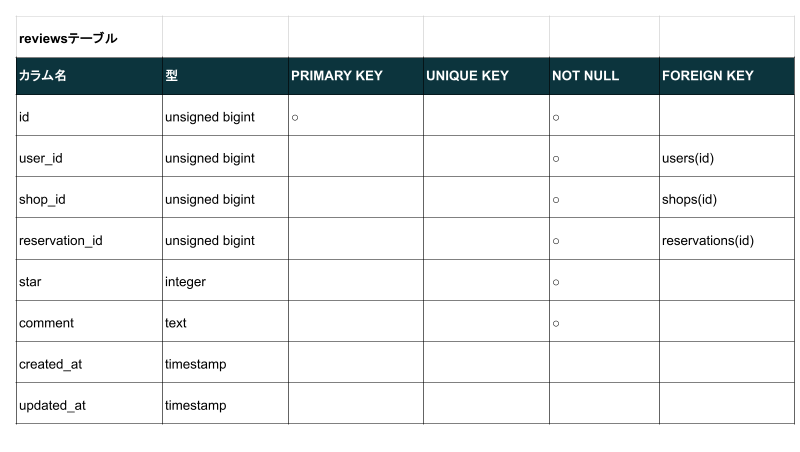
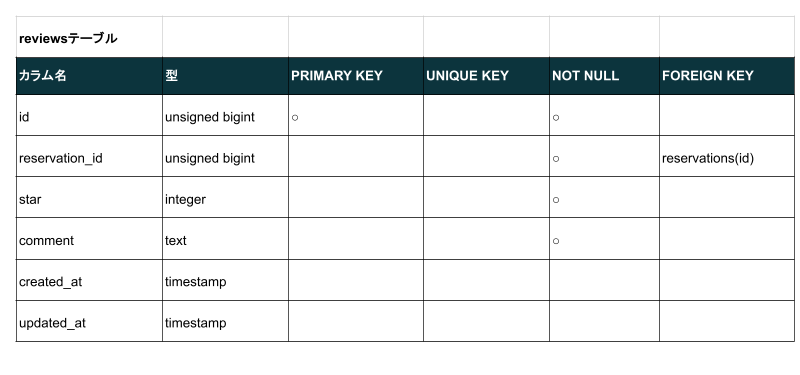
reviewsテーブル修正

diff --git a/src/app/Http/Controllers/ShopController.php b/src/app/Http/Controllers/ShopController.php
@@ -156,18 +156,14 @@ class ShopController extends Controller
             $reservation_items = Reservation::find($review_content['reservation_id']);
             $reservation_record = [];
             $reservation_record['id'] = $reservation_items->id;
-            $reservation_record['user_id'] = $reservation_items->user_id;
             $reservation_record['shop_name'] = $reservation_items->shop->name;
-            $reservation_record['shop_id'] = $reservation_items->shop_id;
             $request->session()->forget('form_input');
         } else {
             $reservation_items = Reservation::find($request->id);
 
             $reservation_record = [];
             $reservation_record['id'] = $reservation_items->id;
-            $reservation_record['user_id'] = $reservation_items->user_id;
             $reservation_record['shop_name'] = $reservation_items->shop->name;
-            $reservation_record['shop_id'] = $reservation_items->shop_id;
         }
 
 
@@ -178,7 +174,7 @@ class ShopController extends Controller
     //レビュー確認
     public function review_confirm(ReviewRequest $request)
     {
-        $review_content = $request->only(['user_id','shop_id','reservation_id','shop_name','star','comment']);
+        $review_content = $request->only(['reservation_id','shop_name','star','comment']);
         $request->session()->put("form_input", $review_content);
         return view('review_confirm', compact('review_content'));
     }
@@ -193,7 +189,7 @@ class ShopController extends Controller
         ->withInput();
         }
 
-        $review_confirm = $request->only(['user_id','shop_id', 'reservation_id', 'star', 'comment']);
+        $review_confirm = $request->only(['reservation_id', 'star', 'comment']);
         Review::create($review_confirm);
         return redirect ('/mypage');
     }

diff --git a/src/resources/views/review_make.blade.php b/src/resources/views/review_make.blade.php
@@ -21,8 +21,6 @@
             <div class="review-form__group">
                 <form action="/mypage/review/confirm" method="post">
                     @csrf
-                    <input type="hidden" name="user_id" value="{{$reservation_record['user_id']}}">
-                    <input type="hidden" name="shop_id" value="{{$reservation_record['shop_id']}}">
                     <input type="hidden" name="reservation_id" value="{{$reservation_record['id']}}">
                     <input type="hidden" name="shop_name" value="{{$reservation_record['shop_name']}}">
                     <h2 class="item__header">評価</h2>

diff --git a/src/resources/views/review_confirm.blade.php b/src/resources/views/review_confirm.blade.php
@@ -14,8 +14,6 @@
         <div class="review-confirm-form__group">
             <form action="/mypage/review/send" method="post">
                 @csrf
-                <input type="hidden" name="user_id" value="{{$review_content['user_id']}}">
-                <input type="hidden" name="shop_id" value="{{$review_content['shop_id']}}">
                 <input type="hidden" name="reservation_id" value="{{$review_content['reservation_id']}}">
                 <input type="hidden" name="star" value="{{$review_content['star']}}">
                 <input type="hidden" name="comment" value="{{$review_content['comment']}}">

diff --git a/src/database/migrations/2024_10_25_222517_create_reviews_table.php b/src/database/migrations/2024_10_25_222517_create_reviews_table.php
@@ -13,8 +13,6 @@ return new class extends Migration
     {
         Schema::create('reviews', function (Blueprint $table) {
             $table->id();
-            $table->foreignId('user_id')->constrained()->cascadeOnDelete();
-            $table->foreignId('shop_id')->constrained()->cascadeOnDelete();
             $table->foreignId('reservation_id')->constrained()->cascadeOnDelete();
             $table->integer('star')->default(0);
             $table->text('comment');

diff --git a/src/app/Models/Review.php b/src/app/Models/Review.php
@@ -8,10 +8,10 @@ use Illuminate\Database\Eloquent\Factories\HasFactory;
 class Review extends Model
 {
     use HasFactory;
-    protected $fillable = ['user_id','shop_id', 'reservation_id', 'star', 'comment'];
+    protected $fillable = ['reservation_id', 'star', 'comment'];
 
     public function user()
     {
-        return $this->belongsTo(User::class);
+        //
     }
 }

diff --git a/README.md b/README.md
@@ -29,7 +29,7 @@ http://localhost/
 - 店名検索
 - 評価機能（５段階評価およびコメント投稿）
 - 来店時照合用QRコード表示
-- リマインダー（予約当日の朝に予約情報のリマインダーメール送付）
+- リマインダー（予約当日の朝7時に予約情報のリマインダーメール送付）
 - 有料サービスの決済
 
 ＜管理者のみ＞
@@ -149,7 +149,7 @@ sudo chmod -R 777 src/*
 
 ## 機能詳細説明・補足
 - **＜評価機能＞**  
-　予約したお店に来店した後に、利用者が店舗を5段階評価とコメントができます。
+　予約したお店に来店した後に、利用者が店舗を5段階評価とコメントができます。マイページの予約履歴タブに来店済の店舗履歴が表示されますので、履歴番号右側の「レビューを書く」ボタンを押下し、投稿フォーム画面に移動してください。
 - **＜来店済ステータスへの変更＞**  
 　評価機能を有効にするためには、利用者の来店状況ステータスを来店済に変更する必要がなります。現在、暫定的に店舗代表者専用Owner-pageの予約一覧画面の「来店済にする」ボタンを押下することで利用者のステータスを変更できます。
 - **＜レスポンシブデザイン＞**  
